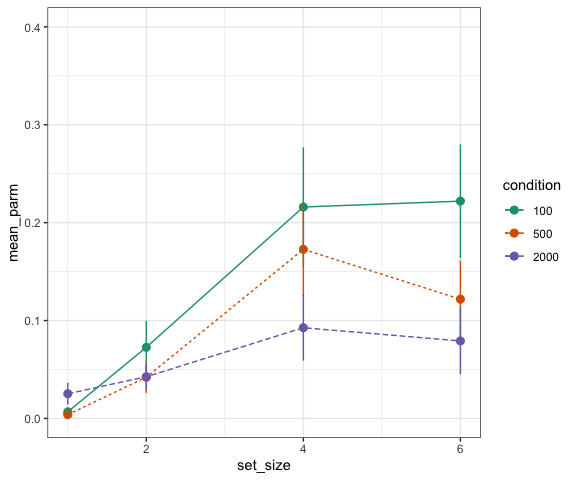
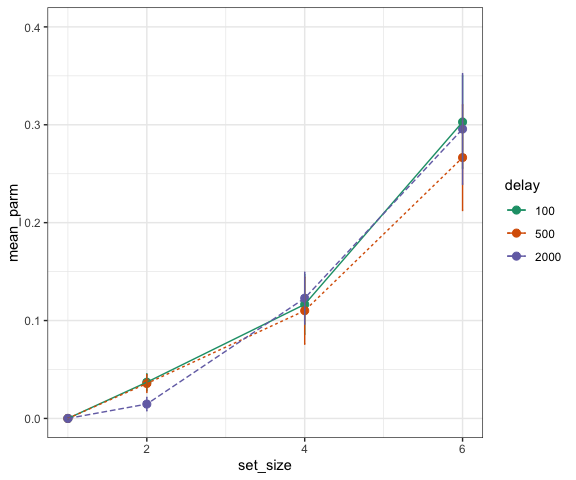
updated readme

diff --git a/README.md b/README.md
@@ -484,9 +484,45 @@ response:
 The two-component model has two main parameters that are estimated via
 model fitting:
 
-  - *K:* The concentration parameter of the von Mises distrubition,
+  - **K:** The concentration parameter of the von Mises distrubition,
     estimating the variability in response error. Larger values of K
-    reflect
+    reflect more precise responses.
+  - **p\_u:** The estimated probability of guessing (i.e., the
+    probability of a uniform response, hence the *u*).
+  - To assist the user, the model fitting routine also returns the
+    estimated probability of making a response to the target
+    value—**p\_t**—which is simply 1-**p\_u**.
+
+As the two-component model does not take into account non-target
+responses (cf., the three-component model), the user’s data frame does
+not need to include non-target values.
+
+``` r
+
+# load the data
+data <- bays2009_full
+
+# fit the 2-component model
+model_fit <- fit_mixtur(data = data, 
+                        components = 2, 
+                        unit = "radians", 
+                        response_var = "response", 
+                        target_var = "target", 
+                        set_size_var = "set_size", 
+                        condition_var = "delay")
+#> [1] "Model fit running. Please wait..."
+#> [1] "Model fit finished."
+
+# look at the top of the fit object
+head(model_fit)
+#>   id      K p_t p_u set_size delay
+#> 1  1 17.171   1   0        1   100
+#> 2  2 13.469   1   0        1   100
+#> 3  3 12.041   1   0        1   100
+#> 4  4 28.565   1   0        1   100
+#> 5  5 13.350   1   0        1   100
+#> 6  6 26.987   1   0        1   100
+```
 
 ### Three-component mixture models
 
@@ -525,7 +561,7 @@ fit %>%
 #> `summarise()` ungrouping output (override with `.groups` argument)
 ```
 
-![](man/figures/README-unnamed-chunk-16-1.png)<!-- -->
+![](man/figures/README-unnamed-chunk-17-1.png)<!-- -->
 
 ``` r
 data <- bays2009_full
@@ -557,7 +593,7 @@ fit %>%
 #> `summarise()` ungrouping output (override with `.groups` argument)
 ```
 
-![](man/figures/README-unnamed-chunk-17-1.png)<!-- -->
+![](man/figures/README-unnamed-chunk-18-1.png)<!-- -->
 
 #### Bayes et al. (2009 Figure 1h & 1i)
 
@@ -580,50 +616,22 @@ fit <- fit_mixtur(data = data,
 pd <- position_dodge(0.0)
 
 fit %>% 
-  group_by(set_size, condition) %>% 
+  group_by(set_size, delay) %>% 
   summarise(mean_parm = mean(p_n), 
             se_parm = sd(p_n) / sqrt(length(p_n))) %>% 
-  mutate(condition = as.factor(condition)) %>% 
+  mutate(delay = as.factor(delay)) %>% 
   ggplot(aes(x = set_size, 
              y = mean_parm, 
-             group = condition)) + 
-  geom_point(aes(colour = condition), 
+             group = delay)) + 
+  geom_point(aes(colour = delay), 
              position = pd, 
              size = 2.5) + 
-  geom_line(aes(colour = condition, 
-                linetype = condition), 
+  geom_line(aes(colour = delay, 
+                linetype = delay), 
             position = pd) +
   geom_errorbar(aes(ymax = mean_parm + se_parm,
                     ymin = mean_parm - se_parm, 
-                    colour = condition),
-                width = 0.05, 
-                position = pd) + 
-  scale_y_continuous(limits = c(0, 0.4)) + 
-  scale_colour_brewer(palette = "Dark2") +
-  theme_bw()
-#> `summarise()` regrouping output by 'set_size' (override with `.groups` argument)
-```
-
-![](man/figures/README-unnamed-chunk-18-1.png)<!-- -->
-
-``` r
-fit %>% 
-  group_by(set_size, condition) %>% 
-  summarise(mean_parm = mean(p_u), 
-            se_parm = sd(p_u) / sqrt(length(p_u))) %>% 
-  mutate(condition = as.factor(condition)) %>% 
-  ggplot(aes(x = set_size, 
-             y = mean_parm, 
-             group = condition)) + 
-  geom_point(aes(colour = condition), 
-             position = pd, 
-             size = 2.5) + 
-  geom_line(aes(colour = condition, 
-                linetype = condition), 
-            position = pd) +
-  geom_errorbar(aes(ymax = mean_parm + se_parm,
-                    ymin = mean_parm - se_parm, 
-                    colour = condition),
+                    colour = delay),
                 width = 0.05, 
                 position = pd) + 
   scale_y_continuous(limits = c(0, 0.4)) + 
@@ -633,6 +641,34 @@ fit %>%
 ```
 
 ![](man/figures/README-unnamed-chunk-19-1.png)<!-- -->
+
+``` r
+fit %>% 
+  group_by(set_size, delay) %>% 
+  summarise(mean_parm = mean(p_u), 
+            se_parm = sd(p_u) / sqrt(length(p_u))) %>% 
+  mutate(delay = as.factor(delay)) %>% 
+  ggplot(aes(x = set_size, 
+             y = mean_parm, 
+             group = delay)) + 
+  geom_point(aes(colour = delay), 
+             position = pd, 
+             size = 2.5) + 
+  geom_line(aes(colour = delay, 
+                linetype = delay), 
+            position = pd) +
+  geom_errorbar(aes(ymax = mean_parm + se_parm,
+                    ymin = mean_parm - se_parm, 
+                    colour = delay),
+                width = 0.05, 
+                position = pd) + 
+  scale_y_continuous(limits = c(0, 0.4)) + 
+  scale_colour_brewer(palette = "Dark2") +
+  theme_bw()
+#> `summarise()` regrouping output by 'set_size' (override with `.groups` argument)
+```
+
+![](man/figures/README-unnamed-chunk-20-1.png)<!-- -->
 
 #### Plotting by condition
 
@@ -662,6 +698,7 @@ pd <- position_dodge(0.8)
 
 # plot the fit
 fit %>% 
+  mutate(delay = as.factor(delay)) %>% 
   group_by(delay) %>% 
   summarise(mean_parm = mean(p_t), 
             se_parm = sd(p_t) / sqrt(length(p_t))) %>% 
@@ -678,7 +715,7 @@ fit %>%
 #> `summarise()` ungrouping output (override with `.groups` argument)
 ```
 
-![](man/figures/README-unnamed-chunk-20-1.png)<!-- -->
+![](man/figures/README-unnamed-chunk-21-1.png)<!-- -->
 
 ## Plotting 2: Plotting Model Fit
 
@@ -710,7 +747,7 @@ plot_model_fit(human_data = data,
                condition_var = NULL)
 ```
 
-![](man/figures/README-unnamed-chunk-21-1.png)<!-- -->
+![](man/figures/README-unnamed-chunk-22-1.png)<!-- -->
 
 ``` r
 
@@ -738,7 +775,7 @@ plot_model_fit(human_data = data,
                condition_var = "delay")
 ```
 
-![](man/figures/README-unnamed-chunk-22-1.png)<!-- -->
+![](man/figures/README-unnamed-chunk-23-1.png)<!-- -->
 
 ## Simulating: Generating Data From Mixture Models
 
@@ -756,12 +793,12 @@ simulated_data <- simulate_mixtur(n_trials = 5000,
 
 head(simulated_data)
 #>   id target response non_target_1 non_target_2 non_target_3
-#> 1  1 -1.012    0.582       -2.548        1.414        2.793
-#> 2  1  2.147    2.119       -2.251        0.925       -0.908
-#> 3  1 -0.262   -0.100       -2.094        2.182        2.897
-#> 4  1 -1.833   -1.701        0.454       -0.454       -2.897
-#> 5  1  1.152    1.175        2.653       -2.007        0.192
-#> 6  1 -0.733   -0.719       -2.374        1.885        0.698
+#> 1  1  2.548    0.160        0.244       -2.775        1.030
+#> 2  1 -2.321   -2.327        0.628       -2.688        1.815
+#> 3  1  0.925   -0.407        1.361        2.147       -1.641
+#> 4  1  1.326    1.241        0.541       -0.157        1.763
+#> 5  1  2.478    2.794        1.955        3.019       -2.234
+#> 6  1  1.065    0.905        0.698       -1.885        2.967
 
 fit <- fit_mixtur(data = simulated_data,
                   components = 2,
@@ -776,8 +813,8 @@ fit <- fit_mixtur(data = simulated_data,
 #> [1] "Model fit finished."
 
 head(fit)
-#>   id      K   p_t p_n   p_u
-#> 1  1 15.194 0.748   0 0.252
+#>   id      K   p_t   p_u
+#> 1  1 15.169 0.755 0.245
 ```
 
 ### Three-component model
@@ -794,12 +831,12 @@ simulated_data <- simulate_mixtur(n_trials = 5000,
 
 head(simulated_data)
 #>   id target response non_target_1 non_target_2 non_target_3
-#> 1  1  0.663    0.929        1.937       -1.065        2.985
-#> 2  1 -3.142   -3.267       -0.140        0.960        1.868
-#> 3  1  1.553    1.520       -2.793       -1.676       -0.977
-#> 4  1 -2.478    1.130        0.454        2.688        1.606
-#> 5  1 -0.209   -0.073       -2.304        3.072        1.187
-#> 6  1  1.204    1.486       -1.222        2.862       -2.601
+#> 1  1  1.518    1.202       -2.374       -0.524        2.356
+#> 2  1  2.705    0.105       -0.035        0.332        1.693
+#> 3  1 -0.506   -0.874        1.728        0.995        0.105
+#> 4  1 -0.942   -2.754       -2.880       -2.234        1.868
+#> 5  1 -1.536   -1.105       -0.698        1.449       -0.262
+#> 6  1 -1.292   -2.262        0.087       -0.297       -2.670
 
 fit <- fit_mixtur(data = simulated_data,
                   components = 3,
@@ -814,8 +851,8 @@ fit <- fit_mixtur(data = simulated_data,
 #> [1] "Model fit finished."
 
 head(fit)
-#>   id     K   p_t   p_n   p_u
-#> 1  1 15.32 0.752 0.153 0.095
+#>   id      K   p_t   p_n   p_u
+#> 1  1 14.436 0.763 0.153 0.084
 ```
 
 ## Designing
